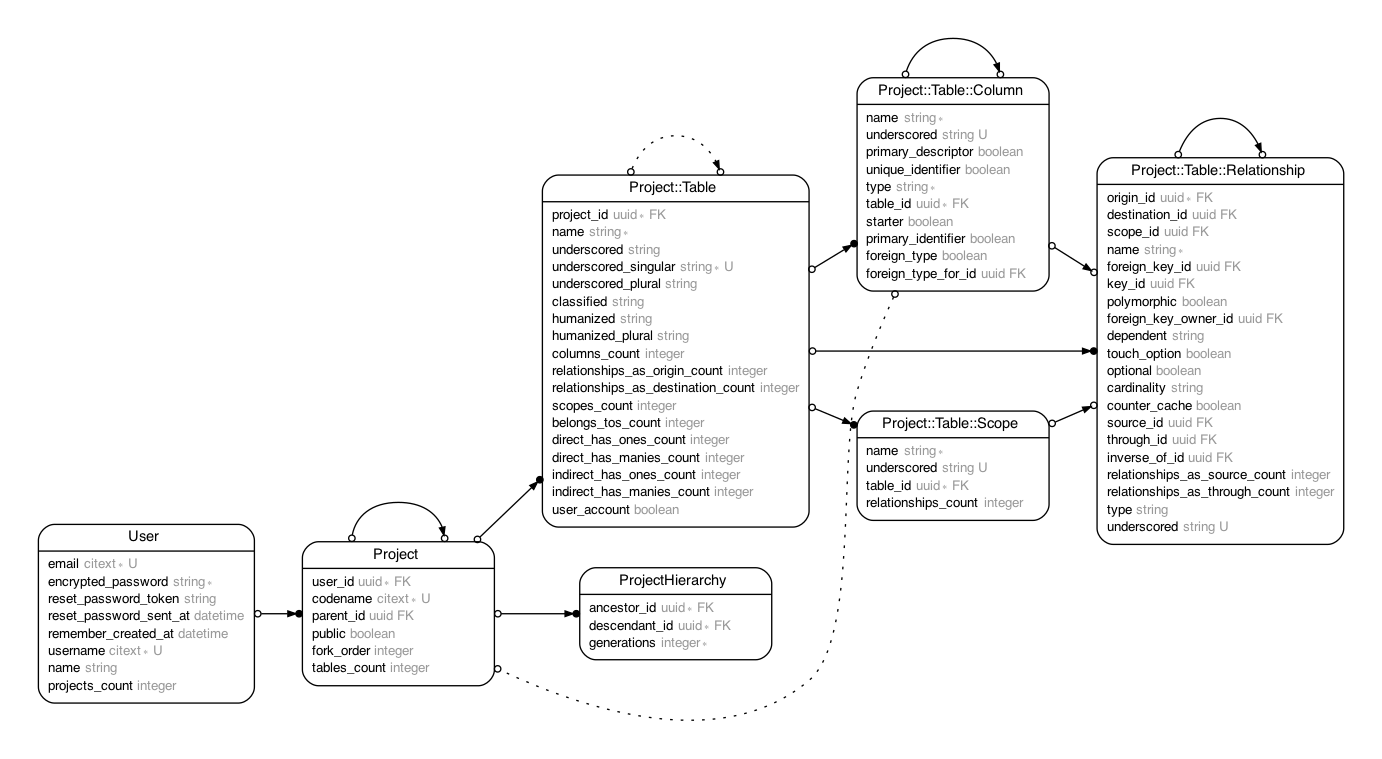
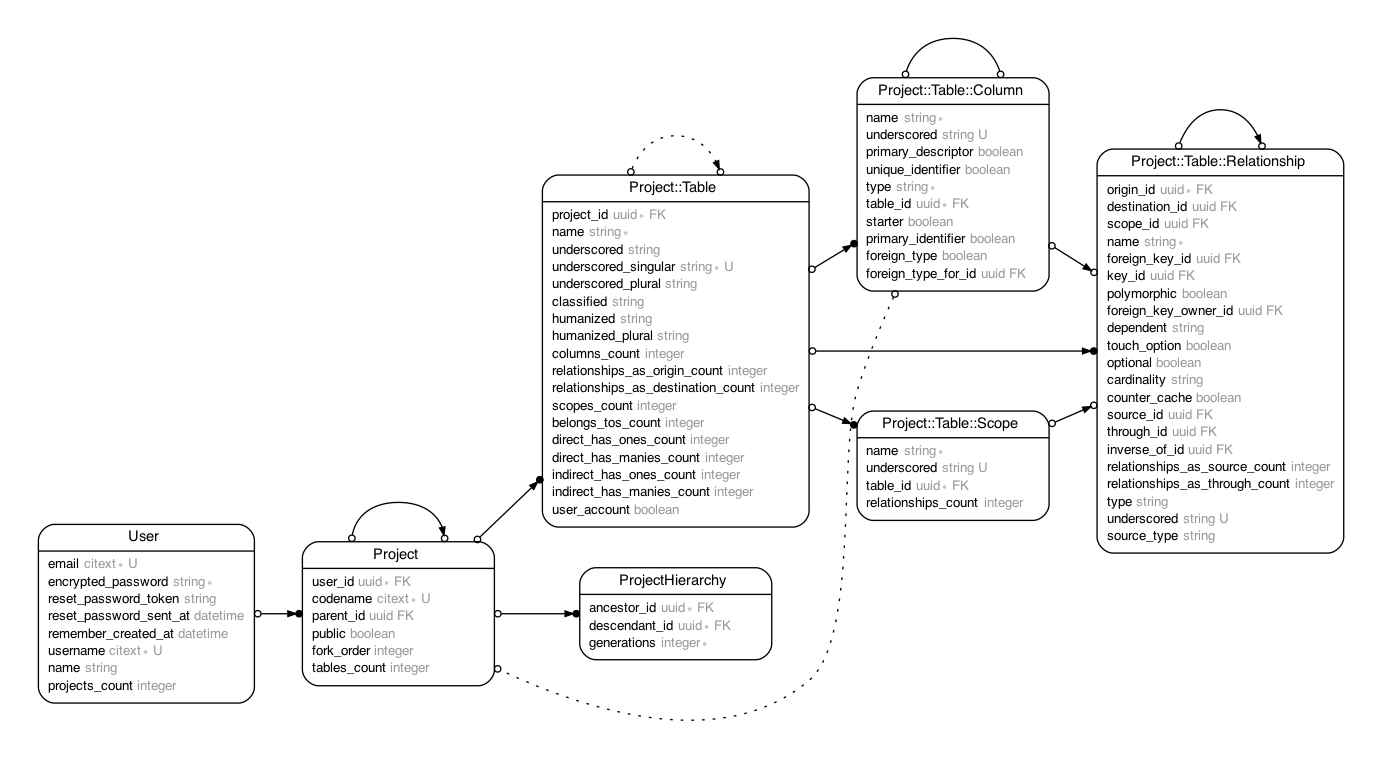
Add polymorphic HMT

Changed region(s): [[0.7779, 0.1515, 0.9645, 0.7273]]

diff --git a/app/models/project/table/relationship/indirect/has_some.rb b/app/models/project/table/relationship/indirect/has_some.rb
@@ -9,6 +9,7 @@ module Project::Table::Relationship::Indirect::HasSome
 
     source: nil,
     source_name: nil,
+    source_type: nil,
 
     through: nil,
     through_name: nil,
@@ -71,7 +72,8 @@ module Project::Table::Relationship::Indirect::HasSome
 
       #### Indirect relationship attributes
       through: through,
-      source: source
+      source: source,
+      source_type: source_type
     )
   end
 
@@ -85,6 +87,7 @@ module Project::Table::Relationship::Indirect::HasSome
 
     source: nil,
     source_name: nil,
+    source_type: nil,
 
     through: nil,
     through_name: nil,
@@ -100,6 +103,7 @@ module Project::Table::Relationship::Indirect::HasSome
       destination_name: destination_name,
       source: source,
       source_name: source_name,
+      source_type: source_type,
       through: through,
       through_name: through_name,
       scope: scope

diff --git a/app/models/project/table/relationship/direct/has_some.rb b/app/models/project/table/relationship/direct/has_some.rb
@@ -47,8 +47,12 @@ module Project::Table::Relationship::Direct::HasSome
     other_table_relationship_with_same_fk = fk_column
       .relationships_as_foreign_key
       .where.not(origin: origin)
+      .first
 
-    if other_table_relationship_with_same_fk.any?
+    if other_table_relationship_with_same_fk.present?
+      other_table_relationship_with_same_fk.update(polymorphic: true)
+      other_table_relationship_with_same_fk.inverse_of.update(polymorphic: true)
+
       polymorphic = true
 
       type_column_name = fk_column.underscored.chomp("_id") + "_type"

diff --git a/app/models/project/table/relationship.rb b/app/models/project/table/relationship.rb
@@ -1,5 +1,4 @@
 # frozen_string_literal: true
-
 # == Schema Information
 #
 # Table name: project_table_relationships
@@ -25,6 +24,7 @@
 #  relationships_as_through_count :integer          default("0")
 #  type                           :string
 #  underscored                    :string
+#  source_type                    :string
 #  created_at                     :datetime         not null
 #  updated_at                     :datetime         not null
 #

diff --git a/app/models/project/table/relationship/direct.rb b/app/models/project/table/relationship/direct.rb
@@ -1,5 +1,4 @@
 # frozen_string_literal: true
-
 # == Schema Information
 #
 # Table name: project_table_relationships
@@ -25,6 +24,7 @@
 #  relationships_as_through_count :integer          default("0")
 #  type                           :string
 #  underscored                    :string
+#  source_type                    :string
 #  created_at                     :datetime         not null
 #  updated_at                     :datetime         not null
 #

diff --git a/app/models/project/table/relationship/direct/belongs_to.rb b/app/models/project/table/relationship/direct/belongs_to.rb
@@ -1,5 +1,4 @@
 # frozen_string_literal: true
-
 # == Schema Information
 #
 # Table name: project_table_relationships
@@ -25,6 +24,7 @@
 #  relationships_as_through_count :integer          default("0")
 #  type                           :string
 #  underscored                    :string
+#  source_type                    :string
 #  created_at                     :datetime         not null
 #  updated_at                     :datetime         not null
 #

diff --git a/app/models/project/table/relationship/direct/has_many.rb b/app/models/project/table/relationship/direct/has_many.rb
@@ -1,5 +1,4 @@
 # frozen_string_literal: true
-
 # == Schema Information
 #
 # Table name: project_table_relationships
@@ -25,6 +24,7 @@
 #  relationships_as_through_count :integer          default("0")
 #  type                           :string
 #  underscored                    :string
+#  source_type                    :string
 #  created_at                     :datetime         not null
 #  updated_at                     :datetime         not null
 #

diff --git a/app/models/project/table/relationship/direct/has_one.rb b/app/models/project/table/relationship/direct/has_one.rb
@@ -1,5 +1,4 @@
 # frozen_string_literal: true
-
 # == Schema Information
 #
 # Table name: project_table_relationships
@@ -25,6 +24,7 @@
 #  relationships_as_through_count :integer          default("0")
 #  type                           :string
 #  underscored                    :string
+#  source_type                    :string
 #  created_at                     :datetime         not null
 #  updated_at                     :datetime         not null
 #

diff --git a/app/models/project/table/relationship/indirect.rb b/app/models/project/table/relationship/indirect.rb
@@ -1,5 +1,4 @@
 # frozen_string_literal: true
-
 # == Schema Information
 #
 # Table name: project_table_relationships
@@ -25,6 +24,7 @@
 #  relationships_as_through_count :integer          default("0")
 #  type                           :string
 #  underscored                    :string
+#  source_type                    :string
 #  created_at                     :datetime         not null
 #  updated_at                     :datetime         not null
 #

diff --git a/app/models/project/table/relationship/indirect/has_many.rb b/app/models/project/table/relationship/indirect/has_many.rb
@@ -1,5 +1,4 @@
 # frozen_string_literal: true
-
 # == Schema Information
 #
 # Table name: project_table_relationships
@@ -25,6 +24,7 @@
 #  relationships_as_through_count :integer          default("0")
 #  type                           :string
 #  underscored                    :string
+#  source_type                    :string
 #  created_at                     :datetime         not null
 #  updated_at                     :datetime         not null
 #

diff --git a/app/models/project/table/relationship/indirect/has_one.rb b/app/models/project/table/relationship/indirect/has_one.rb
@@ -1,5 +1,4 @@
 # frozen_string_literal: true
-
 # == Schema Information
 #
 # Table name: project_table_relationships
@@ -25,6 +24,7 @@
 #  relationships_as_through_count :integer          default("0")
 #  type                           :string
 #  underscored                    :string
+#  source_type                    :string
 #  created_at                     :datetime         not null
 #  updated_at                     :datetime         not null
 #

diff --git a/db/schema.rb b/db/schema.rb
@@ -62,6 +62,7 @@ ActiveRecord::Schema[7.0].define(version: 2021_08_25_104645) do
     t.integer "relationships_as_through_count", default: 0
     t.string "type"
     t.string "underscored"
+    t.string "source_type"
     t.datetime "created_at", null: false
     t.datetime "updated_at", null: false
     t.index ["destination_id"], name: "index_project_table_relationships_on_destination_id"

diff --git a/test/models/project/table/relationship/direct_test.rb b/test/models/project/table/relationship/direct_test.rb
@@ -23,6 +23,7 @@
 #  relationships_as_through_count :integer          default("0")
 #  type                           :string
 #  underscored                    :string
+#  source_type                    :string
 #  created_at                     :datetime         not null
 #  updated_at                     :datetime         not null
 #
